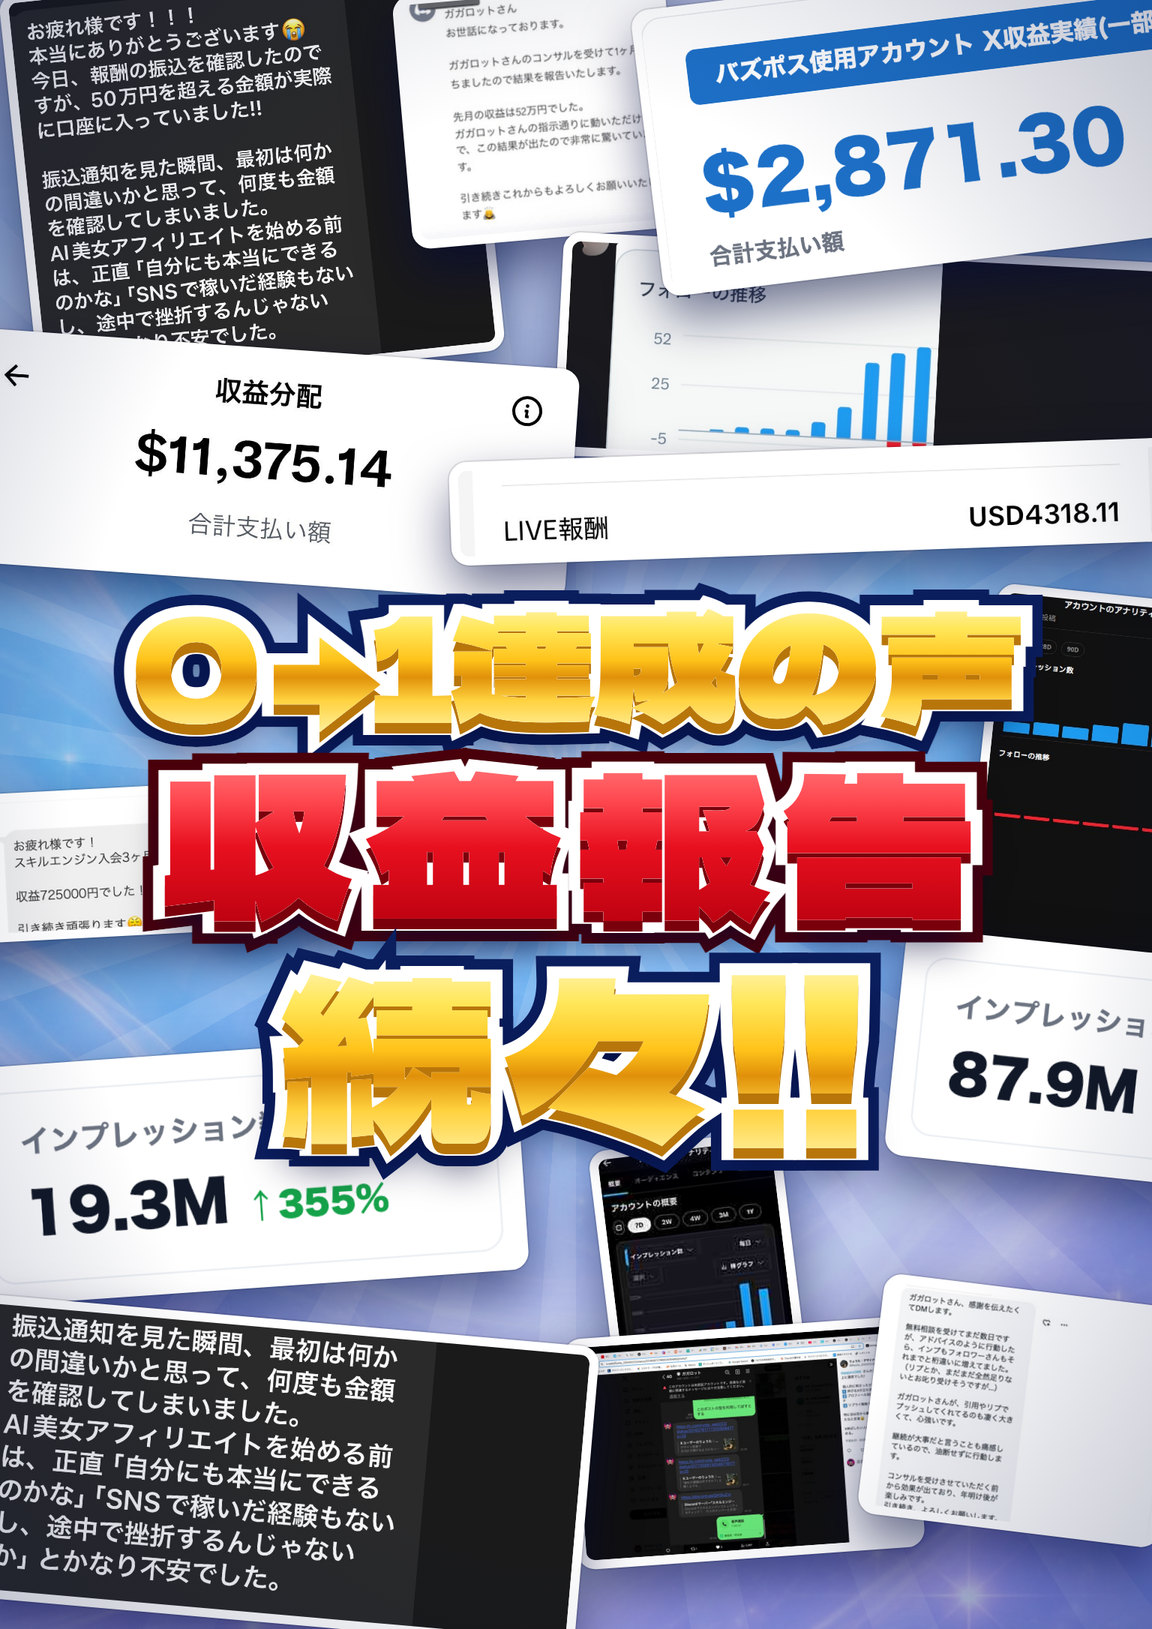
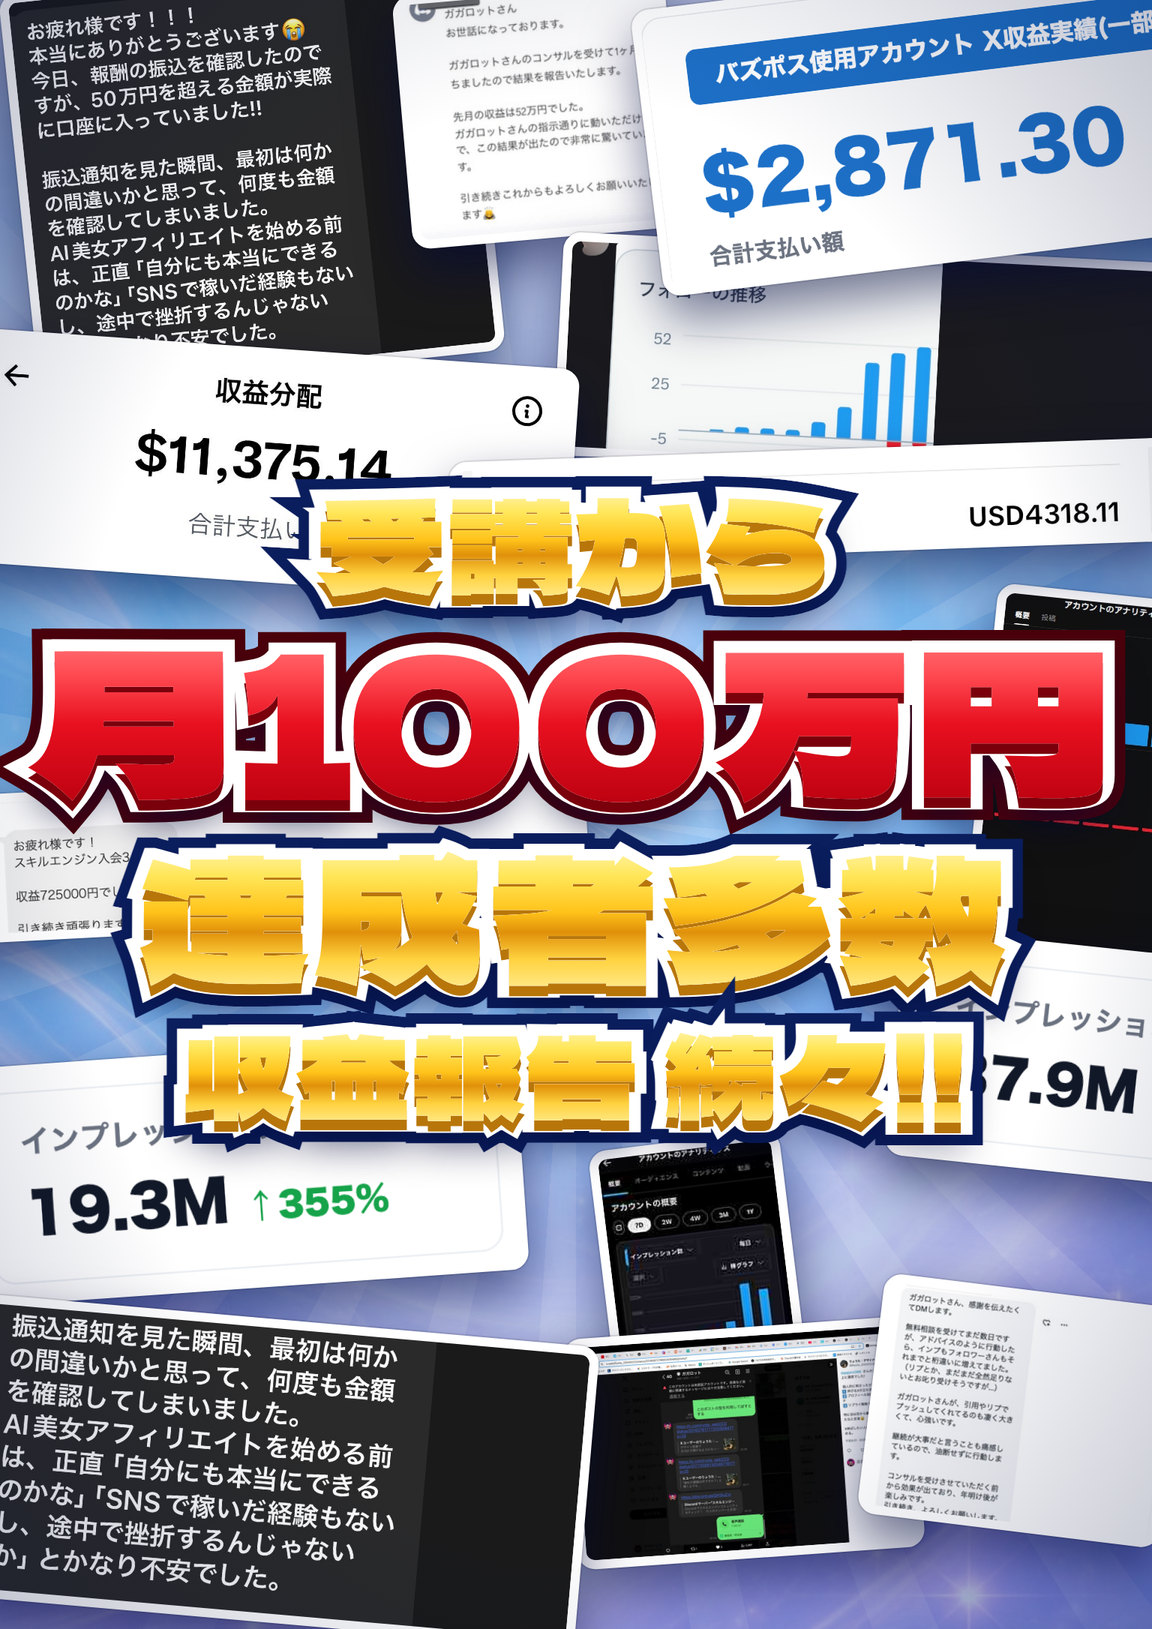
受講生の声コラージュを最上部に移し、見出しを「受講から月100万円達成者多数」に変更
ユーザー指示。配置は ヒーロー→実績3カード→コラージュ→「友だち追加ありがとう」。
見出しは 受講から / 月100万円 / 達成者多数 / 収益報告 続々!! の4行。

diff --git a/design-src/top-images/voices/index.html b/design-src/top-images/voices/index.html
@@ -26,7 +26,7 @@
     box-shadow: 0 16px 34px rgba(0,10,60,.55), 0 0 0 1px rgba(0,0,0,.1); }
   .card img { display:block; width:100%; height:100%; object-fit:cover; }
 
-  .title { position:absolute; left:0; right:0; top:392px; text-align:center; z-index:50;
+  .title { position:absolute; left:0; right:0; top:318px; text-align:center; z-index:50;
     font-family:"Dela Gothic One", "M PLUS Rounded 1c", sans-serif; line-height:1; }
   .line { position:relative; height:1em; margin:0 auto; white-space:nowrap; }
   .line .o, .line .s, .line .f { position:absolute; left:0; right:0; top:0; }
@@ -38,9 +38,10 @@
   .line .f { -webkit-background-clip:text; background-clip:text; color:transparent; }
   .gold .f { background-image: linear-gradient(180deg, #fffbe0 0%, #ffe75a 28%, #ffc31a 50%, #e0900a 62%, #ffd23f 78%, #ffef9a 100%); }
   .red .f { background-image: linear-gradient(180deg, #ff8a8a 0%, #ff4a52 30%, #e8101f 55%, #b8000f 100%); }
-  .l1 { font-size:96px; letter-spacing:-1px; }
-  .l2 { font-size:128px; letter-spacing:10px; margin-top:6px; }
-  .l3 { font-size:144px; letter-spacing:4px; margin-top:6px; }
+  .l1 { font-size:84px; letter-spacing:2px; }
+  .l2 { font-size:132px; letter-spacing:2px; margin-top:8px; }
+  .l3 { font-size:112px; letter-spacing:4px; margin-top:10px; }
+  .l4 { font-size:74px; letter-spacing:2px; margin-top:14px; }
 </style>
 </head>
 <body>
@@ -71,9 +72,10 @@
 
   <div class="vignette"></div>
   <div class="title">
-    <div class="line gold l1"><div class="o">0→1達成の声</div><div class="s">0→1達成の声</div><div class="f">0→1達成の声</div></div>
-    <div class="line red l2"><div class="o">収益報告</div><div class="s">収益報告</div><div class="f">収益報告</div></div>
-    <div class="line gold l3"><div class="o">続々!!</div><div class="s">続々!!</div><div class="f">続々!!</div></div>
+    <div class="line gold l1"><div class="o">受講から</div><div class="s">受講から</div><div class="f">受講から</div></div>
+    <div class="line red l2"><div class="o">月100万円</div><div class="s">月100万円</div><div class="f">月100万円</div></div>
+    <div class="line gold l3"><div class="o">達成者多数</div><div class="s">達成者多数</div><div class="f">達成者多数</div></div>
+    <div class="line gold l4"><div class="o">収益報告 続々!!</div><div class="s">収益報告 続々!!</div><div class="f">収益報告 続々!!</div></div>
   </div>
 </div>
 </body>

diff --git a/index.html b/index.html
@@ -20,6 +20,7 @@
     <div class="top-visuals">
       <img class="tv-hero" src="assets/top-hero.jpg" alt="スキルエンジン 公式LINE追加特典 20大特典" />
       <img class="tv-stats" src="assets/top-stats.jpg" alt="総フォロワー約50万・運用代行50社・AI×SNSで1年6000万円" />
+      <img class="tv-voices" src="assets/top-voices.jpg" alt="受講から月100万円達成者多数・収益報告" />
     </div>
     <span class="chip">プレゼント配布は3時間限定</span>
     <h1>友だち追加<br>ありがとう<br><span class="em2">3時間限定</span>の<br><span class="em-gold">キャンペーン特典</span></h1>
@@ -60,9 +61,6 @@
         <img src="assets/proof-analytics.jpg" alt="アカウントのアナリティクス" />
         <figcaption>実績報告</figcaption>
       </figure>
-    </div>
-    <div class="top-visuals voices">
-      <img class="tv-voices" src="assets/top-voices.jpg" alt="受講生の声と収益報告" />
     </div>
     <p class="note">スキルエンジンはガガロットのAIスクールです。</p>
   </header>
